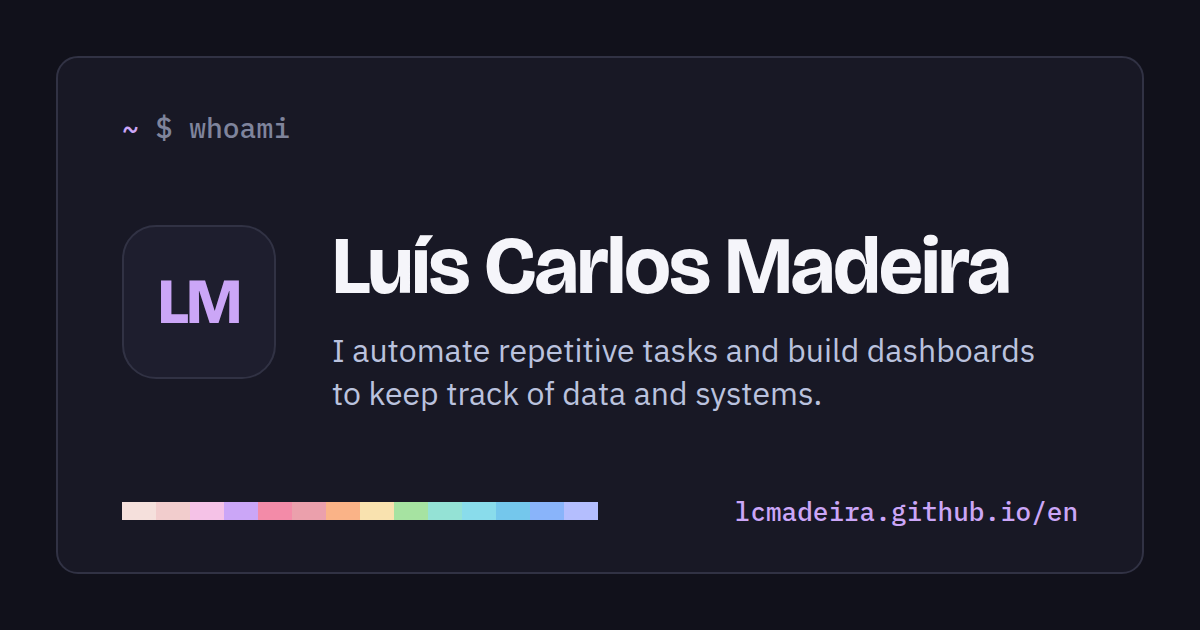
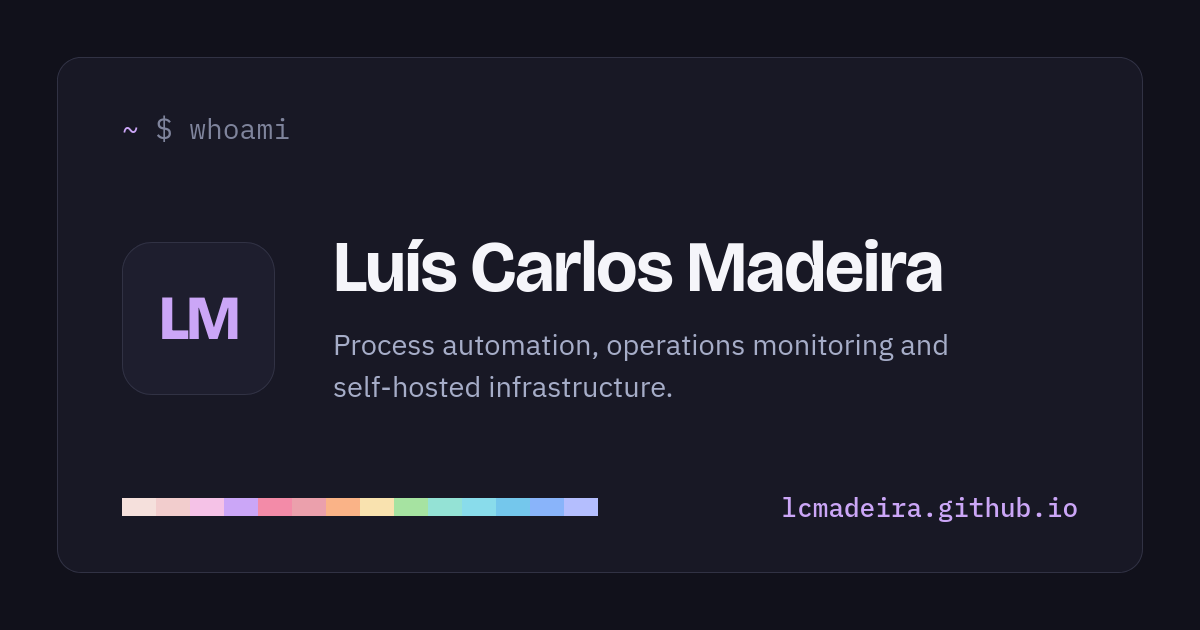
Topo: frase nova e imagens de pré-visualização refeitas
- Frase do topo: "Automação de processos, monitorização de operações e
  infraestrutura self-hosted." (en: "Process automation, operations
  monitoring and self-hosted infrastructure."), também em og:description
  e og:image:alt; "self-hosted" não parte no hífen.
- assets/og.png e og-en.png refeitas com a frase nova a partir de um
  modelo novo, scripts/og-image.html (instruções no ficheiro).
- og:image com ?v=2 para as redes sociais não usarem a imagem em cache.

diff --git a/scripts/og-image.html b/scripts/og-image.html
@@ -1,0 +1,65 @@
+<!doctype html>
+<!--
+  Modelo das imagens de pré-visualização (assets/og.png e assets/og-en.png, 1200x630).
+  Para as refazer, servir o repositório e fotografar com o Firefox:
+    python3 -m http.server 8000
+    firefox --headless --window-size=1200,630 --screenshot og.png    "http://localhost:8000/scripts/og-image.html"
+    firefox --headless --window-size=1200,630 --screenshot og-en.png "http://localhost:8000/scripts/og-image.html?en"
+  A frase tem de ser igual à do topo das páginas (class="lede").
+-->
+<html lang="pt-PT">
+<head>
+<meta charset="utf-8">
+<title>Imagem de pré-visualização</title>
+<link rel="stylesheet" href="https://fonts.googleapis.com/css2?family=Bricolage+Grotesque:opsz,wght@12..96,700;12..96,800&family=IBM+Plex+Sans:wght@400&family=IBM+Plex+Mono:wght@400;500&display=block">
+<style>
+  html, body { margin: 0; width: 1200px; height: 630px; overflow: hidden; background: #11111b; }
+  .card {
+    position: absolute; inset: 57px; box-sizing: border-box;
+    background: #181825; border: 1px solid #313244; border-radius: 24px;
+    padding: 56px 64px 52px;
+    display: grid; grid-template-rows: auto 1fr auto;
+  }
+  .prompt { margin: 0; font: 400 28px/1 "IBM Plex Mono", monospace; color: #7f849c; }
+  .prompt b { color: #cba6f7; font-weight: 400; }
+  .main { display: grid; grid-template-columns: 153px 1fr; column-gap: 58px; align-items: center; }
+  .logo {
+    width: 153px; height: 153px; box-sizing: border-box; border-radius: 30px;
+    background: #1e1e2e; border: 1px solid #313244;
+    display: grid; place-items: center;
+    font: 800 62px/1 "Bricolage Grotesque", sans-serif; color: #cba6f7; letter-spacing: -0.04em;
+  }
+  h1 { margin: 0 0 18px; font: 700 72px/1.05 "Bricolage Grotesque", sans-serif; color: #f5f5fa; letter-spacing: -0.02em; }
+  .lede { margin: 0; max-width: 700px; font: 400 29px/1.45 "IBM Plex Sans", sans-serif; color: #a6adc8; }
+  .nw { white-space: nowrap; }
+  .foot { display: flex; justify-content: space-between; align-items: center; }
+  .palette { display: flex; }
+  .palette i { width: 34px; height: 18px; }
+  .domain { font: 500 26px/1 "IBM Plex Mono", monospace; color: #cba6f7; }
+</style>
+</head>
+<body>
+<div class="card">
+  <p class="prompt"><b>~</b> $ whoami</p>
+  <div class="main">
+    <div class="logo">LM</div>
+    <div>
+      <h1>Luís Carlos Madeira</h1>
+      <p class="lede" id="lede">Automação de processos, monitorização de operações e infraestrutura <span class="nw">self-hosted</span>.</p>
+    </div>
+  </div>
+  <div class="foot">
+    <div class="palette" id="palette"></div>
+    <span class="domain">lcmadeira.github.io</span>
+  </div>
+</div>
+<script>
+  if (location.search.indexOf('en') !== -1) {
+    document.documentElement.lang = 'en';
+    document.getElementById('lede').innerHTML = 'Process automation, operations monitoring and <span class="nw">self-hosted</span> infrastructure.';
+  }
+  ['#f5e0dc','#f2cdcd','#f5c2e7','#cba6f7','#f38ba8','#eba0ac','#fab387','#f9e2af','#a6e3a1','#94e2d5','#89dceb','#74c7ec','#89b4fa','#b4befe']
+    .forEach(function (c) { var i = document.createElement('i'); i.style.background = c; document.getElementById('palette').appendChild(i); });
+</script>
+</body>
+</html>

diff --git a/index.html b/index.html
@@ -21,11 +21,11 @@
 <meta property="og:locale:alternate" content="en_GB">
 <meta property="og:url" content="https://lcmadeira.github.io/">
 <meta property="og:title" content="Luís Carlos Madeira">
-<meta property="og:description" content="Automatizo tarefas repetitivas e construo painéis para acompanhar dados e sistemas.">
-<meta property="og:image" content="https://lcmadeira.github.io/assets/og.png">
+<meta property="og:description" content="Automação de processos, monitorização de operações e infraestrutura self-hosted.">
+<meta property="og:image" content="https://lcmadeira.github.io/assets/og.png?v=2">
 <meta property="og:image:width" content="1200">
 <meta property="og:image:height" content="630">
-<meta property="og:image:alt" content="Luís Carlos Madeira: automatizo tarefas repetitivas e construo painéis para acompanhar dados e sistemas.">
+<meta property="og:image:alt" content="Luís Carlos Madeira: automação de processos, monitorização de operações e infraestrutura self-hosted.">
 <meta name="twitter:card" content="summary_large_image">
 <meta name="twitter:creator" content="@lcmadeira">
 <link rel="preconnect" href="https://fonts.googleapis.com">
@@ -65,7 +65,7 @@
     <div class="intro-body">
       <div class="intro-main">
         <h1>Luís Carlos Madeira</h1>
-        <p class="lede">Automatizo tarefas repetitivas e construo painéis para acompanhar dados e sistemas.</p>
+        <p class="lede">Automação de processos, monitorização de operações e infraestrutura <span class="nw">self-hosted</span>.</p>
         <ul class="links">
           <li><a href="https://github.com/lcmadeira" target="_blank" rel="noopener"><svg aria-hidden="true"><use href="#i-gh"/></svg>GitHub</a></li>
           <li><a href="https://x.com/lcmadeira" target="_blank" rel="noopener"><svg aria-hidden="true"><use href="#i-x"/></svg>X</a></li>

diff --git a/en/index.html b/en/index.html
@@ -21,11 +21,11 @@
 <meta property="og:locale:alternate" content="pt_PT">
 <meta property="og:url" content="https://lcmadeira.github.io/en/">
 <meta property="og:title" content="Luís Carlos Madeira">
-<meta property="og:description" content="I automate repetitive tasks and build dashboards to keep track of data and systems.">
-<meta property="og:image" content="https://lcmadeira.github.io/assets/og-en.png">
+<meta property="og:description" content="Process automation, operations monitoring and self-hosted infrastructure.">
+<meta property="og:image" content="https://lcmadeira.github.io/assets/og-en.png?v=2">
 <meta property="og:image:width" content="1200">
 <meta property="og:image:height" content="630">
-<meta property="og:image:alt" content="Luís Carlos Madeira: I automate repetitive tasks and build dashboards to keep track of data and systems.">
+<meta property="og:image:alt" content="Luís Carlos Madeira: process automation, operations monitoring and self-hosted infrastructure.">
 <meta name="twitter:card" content="summary_large_image">
 <meta name="twitter:creator" content="@lcmadeira">
 <link rel="preconnect" href="https://fonts.googleapis.com">
@@ -65,7 +65,7 @@
     <div class="intro-body">
       <div class="intro-main">
         <h1>Luís Carlos Madeira</h1>
-        <p class="lede">I automate repetitive tasks and build dashboards to keep track of data and systems.</p>
+        <p class="lede">Process automation, operations monitoring and <span class="nw">self-hosted</span> infrastructure.</p>
         <ul class="links">
           <li><a href="https://github.com/lcmadeira" target="_blank" rel="noopener"><svg aria-hidden="true"><use href="#i-gh"/></svg>GitHub</a></li>
           <li><a href="https://x.com/lcmadeira" target="_blank" rel="noopener"><svg aria-hidden="true"><use href="#i-x"/></svg>X</a></li>

diff --git a/assets/site.css b/assets/site.css
@@ -74,6 +74,7 @@ h1 {
   text-wrap: balance;
 }
 .lede { margin: 0; font-size: 1.15rem; line-height: 1.55; }
+.nw { white-space: nowrap; }
 .links { display: flex; flex-wrap: wrap; gap: 0.6rem; margin: 0; padding: 0; list-style: none; }
 .links a {
   display: inline-flex; align-items: center; gap: 0.45rem;

diff --git a/README.md b/README.md
@@ -14,7 +14,7 @@ Página pessoal de Luís Carlos Madeira, publicada pelo GitHub Pages em <https:/
 | `assets/site.css` | Estilos partilhados pelas três páginas, com tema claro e escuro (Catppuccin Latte e Mocha) |
 | `assets/activity.js` | Preenche a linha "atualizado há X" de cada cartão a partir de `data/activity.json` |
 | `data/activity.json` | Data da última alteração de cada projeto, gerada pela automação diária |
-| `assets/og.png`, `assets/og-en.png` | Imagens de pré-visualização para as redes sociais (1200×630) |
+| `assets/og.png`, `assets/og-en.png` | Imagens de pré-visualização para as redes sociais (1200×630), geradas a partir de `scripts/og-image.html` (instruções no próprio ficheiro); a frase tem de ser igual à do topo |
 | `favicon.ico`, `assets/*icon*.png` | Ícone do site (monograma LM) |
 | `scripts/check-site.py` | Verificações antes de publicar (ver abaixo) |
 | `scripts/update-activity.py` | Atualiza `data/activity.json` |
